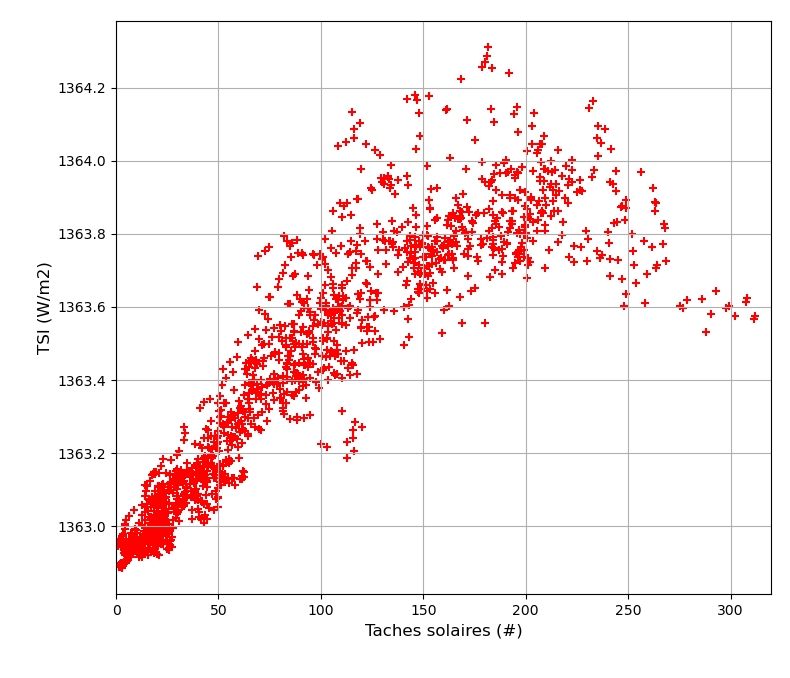
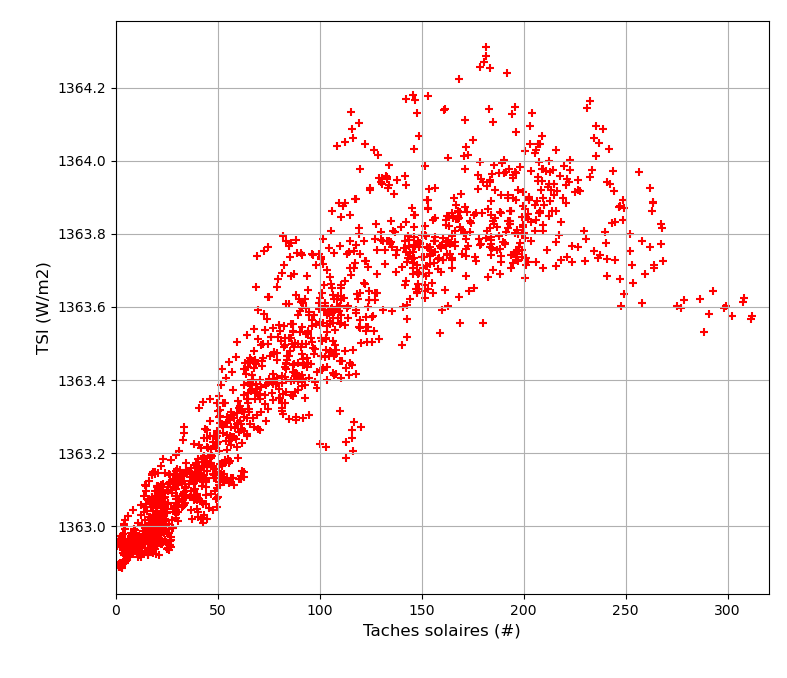
-Improvement of the dataset in Chapter 3.

diff --git a/docs/Chap3_Regression.md b/docs/Chap3_Regression.md
@@ -29,7 +29,7 @@ Voici l'évolution du nombre de taches solaires et du TSI depuis 1948 jusqu'à 2
 
 ![Taches solaires et TSI en fonction de l'année](img/Chap3_exemple_taches_solaires_tsi_annees.png)
 
-On a ici 20 points par an, avec un filtrage de moyenne glissante sur une 1/2 année, soit 1521 points au total.
+On a ici 20 points par an, avec un filtrage de moyenne glissante sur une 1/2 année, soit 1531 points au total.
 Elles sont issues de l'Observatoire Royal de Belgique (SILSO, Dewitte et al. 2022).
 
 On observe que le nombre de taches solaires comme la TSI suivent les mêmes cycles de 11 ans environ, correspondant aux cycles de l'activité solaire.
@@ -43,16 +43,17 @@ Le tableau de données qu'il contient est de la forme :
 
 |year   |tsi     |sunspots|
 |:-----:|:------:|:------:|
-|1948.50|1363.726|229.934 |
-|1948.55|1363.766|223.497 |
-|1948.60|1363.779|215.781 |
-|1948.65|1363.895|202.475 |
-|1948.70|1363.906|192.546 |
+|1948.25|1363.743|193.667 |
+|1948.30|1363.729|196.541 |
+|1948.35|1363.722|205.891 |
+|1948.40|1363.713|215.623 |
+|1948.45|1363.729|218.060 |
 |...    |...     |...     |
-|2024.45|1363.910|169.164 |
-|2024.50|1363.977|170.995 |
+|2024.65|1364.015|172.536 |
+|2024.70|1364.013|170.525 |
+|2024.75|1364.038|171.563 |
 
-Il contient pour chacun des 1521 points l'année (sous forme décimale), la TSI moyenne (en $W/m^2$) et le nombre de taches solaires moyen sur une fenêtre d'une 1/2 année.
+Il contient pour chacun des 1531 points l'année (sous forme décimale), la TSI moyenne (en $W/m^2$) et le nombre de taches solaires moyen sur une fenêtre d'une 1/2 année.
 
 Notre problème de régression sera la suivant : **prédire la TSI moyenne sur une 1/2 année à partir du nombre de taches solaires moyen sur cette même fenêtre**.
 
@@ -75,7 +76,7 @@ Voici le résultat :
 
 ![Taches solaires en fonction du TSI](img/Chap3_exemple_taches_solaires_tsi.png)
 
-On observe que les 2 grandeurs ont bien l'air **fortement corrélées**.
+On observe comme attendu que les 2 grandeurs ont l'air **fortement corrélées**.
 Cependant, on peut déjà constater que : (1) la relation n'a l'air linéaire que pour des nombres de taches solaires faibles (moins de 150-200), (2) la dispersions des points a l'air d'augmenter avec le nombre de taches solaires.
 
 Ces observations seront importantes dans la suite.
